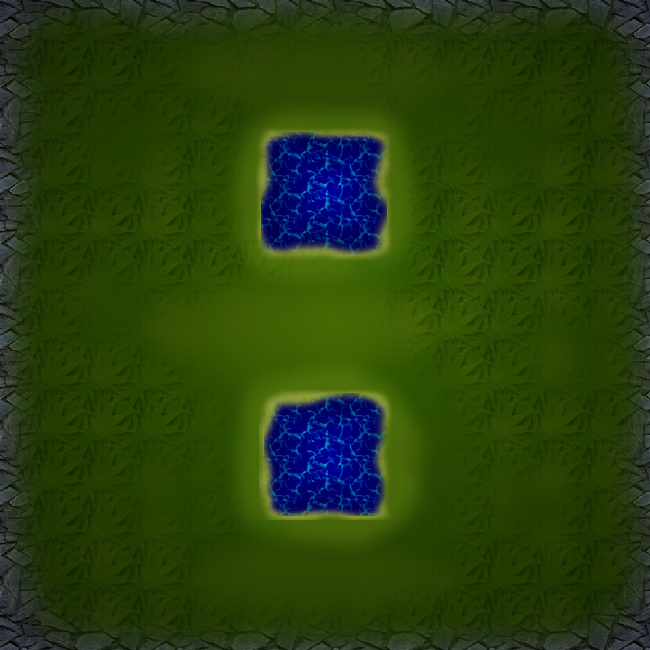
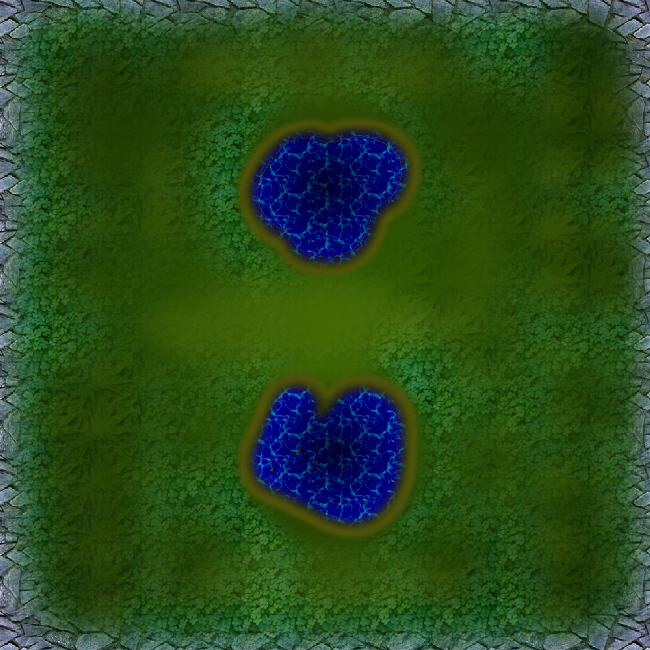
Alteração da imagem de fundo do tabuleiro; Alteração nos Forms de Regra e Sobre; Implementação de funcionalidade "Revelar peça" que exibe a peça do inimigo no momento do confronto

diff --git a/Combate/src/br/edu/unijorge/entidade/Tabuleiro.java b/Combate/src/br/edu/unijorge/entidade/Tabuleiro.java
@@ -14,6 +14,8 @@ import java.awt.Container;
 import java.util.Collections;
 import java.util.Enumeration;
 import java.util.List;
+import java.util.logging.Level;
+import java.util.logging.Logger;
 import javax.swing.ImageIcon;
 import javax.swing.AbstractButton;
 import javax.swing.ButtonGroup;
@@ -26,13 +28,11 @@ import javax.swing.JOptionPane;
  */
 public class Tabuleiro extends JLayeredPane {
 
-    public static final int 
-            LARGURA_PADRAO = 650,
+    public static final int LARGURA_PADRAO = 650,
             ALTURA_PADRAO = 650,
             LAYER_BACKGROUND = 0,
             LAYER_POSICAO = 400,
             LAYER_SLOT = 800;
-    
     private Posicao posSelec;
     private ButtonGroup pecasTimeAzul;
     private ButtonGroup pecasTimeVerm;
@@ -49,14 +49,14 @@ public class Tabuleiro extends JLayeredPane {
     public void paintComponent(Graphics g) {
         super.paintComponent(g);
         Image img;
-        if(firstRun){
+        if (firstRun) {
             img = new ImageIcon(getClass().getResource(Constante.IMAGEM_FUNDO_APRESENTACAO)).getImage();
-        }else{
+        } else {
             img = new ImageIcon(getClass().getResource(Constante.IMAGEM_FUNDO_TABULEIRO)).getImage();
         }
         g.drawImage(img, 0, 0, this.getWidth(), this.getHeight(), this);
     }
-    
+
     private void construirPecas() {
         PecaMovel pecaMovel;
         //Constroi as pecas moveis
@@ -176,17 +176,17 @@ public class Tabuleiro extends JLayeredPane {
     public void autoPosicionarPecas() {
 
         desordenarPecas();
-        
+
         int x = 0;
         Enumeration<AbstractButton> pecasAzul = pecasTimeAzul.getElements();
-        while(pecasAzul.hasMoreElements()){
-            ((Posicao)getComponentsInLayer(LAYER_POSICAO)[x]).add((Peca)pecasAzul.nextElement());
+        while (pecasAzul.hasMoreElements()) {
+            ((Posicao) getComponentsInLayer(LAYER_POSICAO)[x]).add((Peca) pecasAzul.nextElement());
             x++;
         }
-        
+
         x = 99;
         Enumeration<AbstractButton> pecasVerm = pecasTimeVerm.getElements();
-        while(pecasVerm.hasMoreElements()) {
+        while (pecasVerm.hasMoreElements()) {
             ((Posicao) getComponentsInLayer(LAYER_POSICAO)[x]).add(pecasVerm.nextElement());
             x--;
         }
@@ -201,12 +201,12 @@ public class Tabuleiro extends JLayeredPane {
     public ButtonGroup getPecasTimeVerm() {
         return pecasTimeVerm;
     }
-    
-    public void setPecasTimeAzul(ButtonGroup pecas){
+
+    public void setPecasTimeAzul(ButtonGroup pecas) {
         this.pecasTimeAzul = pecas;
     }
-    
-    public void setPecasTimeVerm(ButtonGroup pecas){
+
+    public void setPecasTimeVerm(ButtonGroup pecas) {
         this.pecasTimeVerm = pecas;
     }
 
@@ -233,12 +233,10 @@ public class Tabuleiro extends JLayeredPane {
     public void setExercitoAtual(Exercito exercitoAtual) {
         this.exercitoAtual = exercitoAtual;
     }
-    
-    private void alternarExercito(){
+
+    private void alternarExercito() {
         alternarExercito(false);
     }
-    
-    
 
     private void alternarExercito(boolean firstRun) {
         Exercito atual = this.exercitoAnt;
@@ -253,14 +251,12 @@ public class Tabuleiro extends JLayeredPane {
                     "Jogada encerrada",
                     JOptionPane.INFORMATION_MESSAGE);
         }
-        try{
-            MainForm mf = (MainForm)getParent().getParent().getParent().getParent();
+        try {
+            MainForm mf = (MainForm) getParent().getParent().getParent().getParent();
             mf.getJlJogadorInfo().setIcon(null);
             mf.getJlJogadorInfo().setText(null);
-        }catch(ClassCastException ex){
-
-        }catch(NullPointerException ex2){
-            
+        } catch (ClassCastException ex) {
+        } catch (NullPointerException ex2) {
         }
 
         habilitarExercito(this.exercitoAtual);
@@ -287,6 +283,7 @@ public class Tabuleiro extends JLayeredPane {
 
     private boolean confrontar(PecaMovel peca, Posicao posDestino) {
         Peca pecaAtacada = (Peca) posDestino.getComponent(0);
+
         int valorPeca = peca.getValor();
         int valorPecaAtacada = pecaAtacada.getValor();
 
@@ -300,22 +297,26 @@ public class Tabuleiro extends JLayeredPane {
             return true;
         } else if (valorPecaAtacada == EntidadesImoveis.BOMBA.getValor()) {
             if (valorPeca == EntidadesMoveis.CABO_ARMEIRO.getValor()) {
+                revelarPeca(peca, pecaAtacada, 1);
                 posDestino.removeAll();
                 ((Posicao) peca.getParent()).removeAll();
                 posDestino.add(peca);
             } else {
+                revelarPeca(peca, pecaAtacada, 2);
                 peca.getParent().removeAll();
             }
-        } else if ((valorPecaAtacada == EntidadesMoveis.ESPIAO.getValor() && valorPeca == EntidadesMoveis.MARECHAL.getValor())
-                || (valorPeca == EntidadesMoveis.ESPIAO.getValor() && valorPecaAtacada == EntidadesMoveis.MARECHAL.getValor())) {
+        } else if ((valorPeca == EntidadesMoveis.ESPIAO.getValor() && valorPecaAtacada == EntidadesMoveis.MARECHAL.getValor())) {
+            revelarPeca(peca, pecaAtacada, 1);
             posDestino.removeAll();
             ((Posicao) peca.getParent()).removeAll();
             posDestino.add(peca);
-        } else if (valorPeca == valorPecaAtacada || valorPeca > valorPecaAtacada) {
+        } else if (valorPeca >= valorPecaAtacada) {
+            revelarPeca(peca, pecaAtacada, 1);
             posDestino.removeAll();
             ((Posicao) peca.getParent()).removeAll();
             posDestino.add(peca);
         } else if (valorPeca < valorPecaAtacada) {
+            revelarPeca(peca, pecaAtacada, 2);
             peca.getParent().removeAll();
         }
 
@@ -330,6 +331,16 @@ public class Tabuleiro extends JLayeredPane {
         }
 
         return false;
+    }
+
+    private void revelarPeca(Peca pecaOrigem, Peca pecaDestino, int vencedor){
+        pecaDestino.setEnabled(true);
+        pecaDestino.setOpaque(false);
+        JOptionPane.showMessageDialog(
+                this,
+                (vencedor == 1 ? pecaOrigem.getTitulo() + " (" + pecaOrigem.getExercito().getNome() + ")" : pecaDestino.getTitulo() + " (" + pecaDestino.getExercito().getNome() + ")") + " venceu.",
+                "",
+                JOptionPane.WARNING_MESSAGE);
     }
 
     private int getQtdCasasDeslocadas(PecaMovel peca, Posicao posDestino) {
@@ -352,7 +363,6 @@ public class Tabuleiro extends JLayeredPane {
                 if (peca.getExercito().equals(exercito)) {
                     peca.setEnabled(false);
                     peca.setFocusable(false);
-                    //peca.setText("");
                 }
             }
         }
@@ -430,26 +440,26 @@ public class Tabuleiro extends JLayeredPane {
         }
         return false;
     }
-    
-    private void desordenarPecas(){
+
+    private void desordenarPecas() {
         //Exercito Azul
         List lPecasAzul = Collections.list(pecasTimeAzul.getElements());
         Collections.shuffle(lPecasAzul);
-        
+
         pecasTimeAzul = new ButtonGroup();
-        
-        for(Object p : lPecasAzul){
-            pecasTimeAzul.add((AbstractButton)p);
+
+        for (Object p : lPecasAzul) {
+            pecasTimeAzul.add((AbstractButton) p);
         }
-        
+
         //Exercito Vermelho
         List lPecasVerm = Collections.list(pecasTimeVerm.getElements());
         Collections.shuffle(lPecasVerm);
-        
+
         pecasTimeVerm = new ButtonGroup();
-        
-        for(Object p : lPecasVerm){
-            pecasTimeVerm.add((AbstractButton)p);
+
+        for (Object p : lPecasVerm) {
+            pecasTimeVerm.add((AbstractButton) p);
         }
     }
 
@@ -458,8 +468,8 @@ public class Tabuleiro extends JLayeredPane {
         this.setLayer(c, layer);
         return c;
     }
-    
-    public void addPecasSlot(Container slot, ButtonGroup listPecas){
+
+    public void addPecasSlot(Container slot, ButtonGroup listPecas) {
         //Limpa o slot
         slot.removeAll();
 
@@ -472,14 +482,22 @@ public class Tabuleiro extends JLayeredPane {
                 slot.add(pos);
             }
         }
-        
+
         int x = 0;
         Enumeration<AbstractButton> pecas = listPecas.getElements();
-        while(pecas.hasMoreElements()){
-            ((Posicao)slot.getComponent(x)).add((Peca)pecas.nextElement());
+        while (pecas.hasMoreElements()) {
+            ((Posicao) slot.getComponent(x)).add((Peca) pecas.nextElement());
             x++;
         }
         slot.getParent().repaint();
-        
+
+    }
+
+    private void aguardar(long milis) {
+        try {
+            Thread.sleep(milis);
+        } catch (InterruptedException ex) {
+            Logger.getLogger(Tabuleiro.class.getName()).log(Level.SEVERE, null, ex);
+        }
     }
 }

diff --git a/Combate/src/br/edu/unijorge/form/RegrasForm.java b/Combate/src/br/edu/unijorge/form/RegrasForm.java
@@ -40,6 +40,7 @@ public class RegrasForm extends DialogForm {
         jbFechar = new javax.swing.JButton();
 
         setDefaultCloseOperation(javax.swing.WindowConstants.DISPOSE_ON_CLOSE);
+        setTitle("COMBATE*** | Regras");
 
         jspRegras.setHorizontalScrollBarPolicy(javax.swing.ScrollPaneConstants.HORIZONTAL_SCROLLBAR_NEVER);
         jspRegras.setEnabled(false);
@@ -47,13 +48,12 @@ public class RegrasForm extends DialogForm {
 
         jtaRegras.setColumns(20);
         jtaRegras.setEditable(false);
-        jtaRegras.setFont(new java.awt.Font("Arial", 0, 13)); // NOI18N
+        jtaRegras.setFont(new java.awt.Font("Arial", 0, 13));
         jtaRegras.setLineWrap(true);
         jtaRegras.setRows(5);
         jtaRegras.setText("-REGRAS\n\n-OBJETIVO DO JOGO\nCada um comanda seu exército, que tem por objetivo capturar a bandeira do exército inimigo. \nUma outra forma de vencer é deixando o adversário sem movimentos legais (derrotando todas as suas peças móveis, por exemplo).\n\n-PEÇAS\nExistem dois tipos de peças: As móveis e as imóveis.\n\nOs exércitos são distintos pelas cores azul e vermelho. As imóveis são uma bandeira e seis bombas.\n\n   * A bandeira deve ficar escondida, pois quando é capturada pelo adversário, o jogo acaba e o que teve sua bandeira capturada perde.\n    *As bombas são peças que derrotam qualquer outra, com exceção do cabo armeiro.\n\nAs peças móveis são usadas para invadir o território adversário, derrotar suas peças e capturar a bandeira, sendo esta, o objetivo do jogo. \nCada uma tem um número, que representa seu poder. Quanto maior o número, mais forte é.\n\n    *Um espião, 1, que é a única peça que pode derrotar o marechal\n    *Oito soldados, 2, que podem mover mais de uma casa por vez, a corrida. Um soldado não pode correr e atacar na mesma vez.\n    *Cinco cabos armeiros, 3, que podem desarmar as bombas.\n    *Quatro sargentos, 4.\n    *Quatro tenentes, 5.\n    *Quatro capitães, 6.\n    *Três majores, 7.\n    *Dois coronéis, 8.\n    *Um general, 9.\n    *Um marechal, 10, que pode ser morto pelo espião.\n\n-O ESPIÃO E O MARECHAL\n\nO espião é a peça mais fraca do jogo, no nível 1, e o marechal a mais forte, no nível 10. \nSe um espião atacar um marechal, este morre, mas se o contrário acontecer, um espião for atacado por um marechal, é aquele que morre. \nOu seja, entre o espião e o marechal, o que atacar vence.");
         jtaRegras.setWrapStyleWord(true);
-        jtaRegras.setAutoscrolls(false);
-        jtaRegras.setCursor(new java.awt.Cursor(java.awt.Cursor.HAND_CURSOR));
+        jtaRegras.setCursor(new java.awt.Cursor(java.awt.Cursor.DEFAULT_CURSOR));
         jspRegras.setViewportView(jtaRegras);
 
         javax.swing.GroupLayout jpRegrasLayout = new javax.swing.GroupLayout(jpRegras);

diff --git a/Combate/src/br/edu/unijorge/form/SobreForm.java b/Combate/src/br/edu/unijorge/form/SobreForm.java
@@ -63,13 +63,15 @@ public class SobreForm extends DialogForm {
         jLabel3 = new javax.swing.JLabel();
 
         setDefaultCloseOperation(javax.swing.WindowConstants.DISPOSE_ON_CLOSE);
+        setTitle("COMBATE*** | Sobre...");
         getContentPane().setLayout(null);
 
         jlTitulo.setFont(new java.awt.Font("Ubuntu", 1, 36)); // NOI18N
         jlTitulo.setText("COMBATE");
         getContentPane().add(jlTitulo);
-        jlTitulo.setBounds(12, 48, 178, 42);
+        jlTitulo.setBounds(12, 48, 210, 42);
 
+        jlVersao.setFont(new java.awt.Font("Ubuntu", 3, 13)); // NOI18N
         jlVersao.setText("Versão:");
         getContentPane().add(jlVersao);
         jlVersao.setBounds(12, 226, 320, 16);
@@ -97,15 +99,15 @@ public class SobreForm extends DialogForm {
 
         jLabel1.setIcon(new javax.swing.ImageIcon(getClass().getResource("/br/edu/unijorge/imagens/combateIcon.png"))); // NOI18N
         getContentPane().add(jLabel1);
-        jLabel1.setBounds(240, 60, 16, 16);
+        jLabel1.setBounds(260, 60, 16, 16);
 
         jLabel2.setIcon(new javax.swing.ImageIcon(getClass().getResource("/br/edu/unijorge/imagens/combateIcon.png"))); // NOI18N
         getContentPane().add(jLabel2);
-        jLabel2.setBounds(200, 60, 16, 16);
+        jLabel2.setBounds(220, 60, 16, 16);
 
         jLabel3.setIcon(new javax.swing.ImageIcon(getClass().getResource("/br/edu/unijorge/imagens/combateIcon.png"))); // NOI18N
         getContentPane().add(jLabel3);
-        jLabel3.setBounds(220, 60, 16, 16);
+        jLabel3.setBounds(240, 60, 16, 16);
 
         pack();
     }// </editor-fold>//GEN-END:initComponents

diff --git a/Combate/src/br/edu/unijorge/constante/Constante.java b/Combate/src/br/edu/unijorge/constante/Constante.java
@@ -22,9 +22,10 @@ public abstract class Constante {
     //Imagens utilizadas pela aplicação
     public static final String PATH_IMAGENS = "/br/edu/unijorge/imagens/";
     public static final String EXTENSAO_IMAGEM = ".png";
-    public static final String IMAGEM_FUNDO_TABULEIRO = "/br/edu/unijorge/imagens/Terreno-Combate.png";
-     public static final String IMAGEM_FUNDO_APRESENTACAO = "/br/edu/unijorge/imagens/Imagem-Main.png";
-    public static final String IMAGEM_FUNDO_QUARTEL = "/br/edu/unijorge/imagens/Quartel-Combate.png";
-    public static final String IMAGEM_ICONE = "/br/edu/unijorge/imagens/combateIcon.png";
+    public static final String IMAGEM_FUNDO_TABULEIRO = PATH_IMAGENS + "Terreno-Combate" + EXTENSAO_IMAGEM;
+    public static final String IMAGEM_FUNDO_APRESENTACAO = PATH_IMAGENS + "Imagem-Main"  + EXTENSAO_IMAGEM;
+    public static final String IMAGEM_SANGUE = PATH_IMAGENS + "Sangue"  + EXTENSAO_IMAGEM;
+    public static final String IMAGEM_FUNDO_QUARTEL = PATH_IMAGENS + "Quartel-Combate"  + EXTENSAO_IMAGEM;
+    public static final String IMAGEM_ICONE = PATH_IMAGENS + "combateIcon"  + EXTENSAO_IMAGEM;
 
 }
